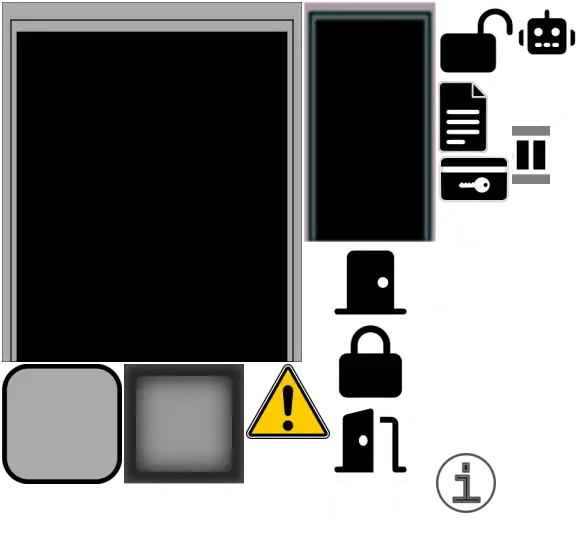
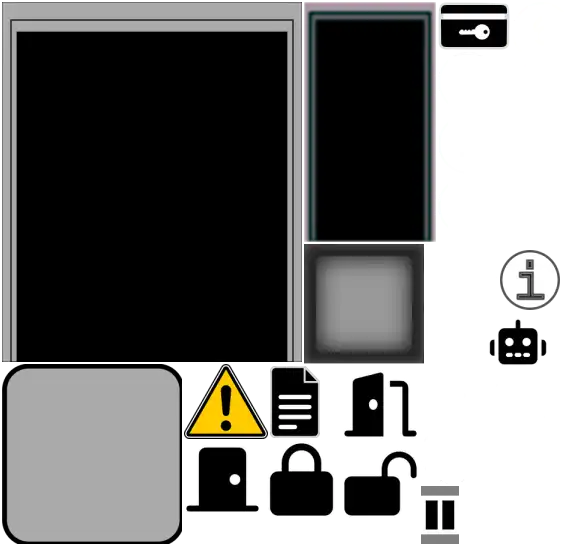
feat: draw floor decals from gm.decor

Changed region(s): [[0.0, 0.0, 1.0, 0.9963], [0.8293, 0.4359, 0.9774, 0.685]]

diff --git a/npc-cli/world/Floor.jsx b/npc-cli/world/Floor.jsx
@@ -83,6 +83,22 @@ export default function Floor(props) {
       const navPoly = Poly.union(triangles.concat(gm.doors.map(x => x.computeDoorway())));
       drawPolygons(ct, navPoly, ['#3339', '#000', 0.04]);
 
+      // 🚧 decals from gm.decor
+      const { decor } = w.geomorphs.sheet;
+      const decals = gm.decor.filter(x => x.type === 'decal');
+      for (const decal of decals) {
+        const rect = decor[decal.meta.img];
+        // drawPolygons(ct, [Poly.fromRect(decal.bounds2d)], ['#f00', null]);
+        ct.save();
+        ct.transform(...decal.transform);
+        ct.drawImage(
+          w.decorImgs[rect.sheetId],
+          rect.x, rect.y, rect.width, rect.height,
+          0, 0, 1, 1,
+        );
+        ct.restore();
+      }
+
       // grids
       ct.setTransform(1, 0, 0, 1, -gm.pngRect.x * worldToCanvas, -gm.pngRect.y * worldToCanvas);
       ct.fillStyle = state.smallGrid;
@@ -99,17 +115,6 @@ export default function Floor(props) {
 
       // walls
       drawPolygons(ct, gm.walls, ['#000', null]);
-
-      // ✅ store decor images in w.decorImgs
-      // 🚧 get decals from gm.decor instead
-      // 🚧 use <Decor> approach to computing "global transform"
-      const { decor } = w.geomorphs.sheet;
-      
-      // for (const decal of gm.decals) {
-      //   const rect = decor[decal.decorKey];
-      //   drawPolygons(ct, [decal.poly], ['#f00', null]);
-      //   // ct.drawImage(w.decorImgs[rect.sheetId], rect.x, rect.y, rect.width, rect.height, dx, dy, dw, dh);
-      // }
     },
     drawGmLight(gmKey) {
       const { ct } = w.texFloorLight;

diff --git a/npc-cli/world/Decor.jsx b/npc-cli/world/Decor.jsx
@@ -396,7 +396,7 @@ export default function Decor(props) {
       return /** @type {typeof d} */ (instance);
     },
     /** @returns {d is Geomorph.DecorPoint | Geomorph.DecorQuad} */
-    isDecorQuad(d) {
+    isDecorQuad(d) {// 🚧 clean and rename
       return d.type === 'point' && (
         typeof d.meta.img === 'string'
         // these fallback to icon--info

diff --git a/docs/TODO.md b/docs/TODO.md
@@ -77,7 +77,10 @@
   - ❌ layout.decals, symbol.decals
   - ✅ remove layout.decals etc.
   - ✅ `decor decal` yields decor like quad but not drawn by `<Decor>`
-  - 🚧 `decor decal` drawn on floor
+  - ✅ `decor decal` drawn on floor
+  - 🚧 better decals
+
+- hot reload light map?
 
 - uniform labelY -> labelOffset
   - so we can avoid label covering npc while Lie
